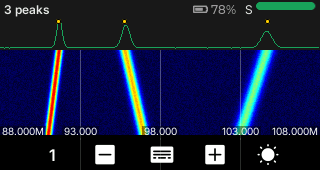
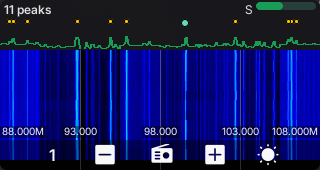
docs: real RF in the README and the store screenshots
docs/media/sdr.png and scanner.png came from the mock sources and showed
two or three synthetic carriers. Replace them with the captures the app
READMEs already use, both taken from the dongle: WFM at 99.6 MHz and an
88-108 MHz sweep with 11 peaks. The README now opens with the SDR demo
GIF, a live waterfall recorded on the device.

Claude-Session: https://claude.ai/code/session_01Fi3YWkHDyyuyYf4iKkxsu9

diff --git a/README.md b/README.md
@@ -2,6 +2,8 @@
 
 Radio tools for the [M5Stack CardputerZero](https://shop.m5stack.com/pages/m5-cardputerzero). Plug an RTL-SDR dongle into the USB-A port and ZeroRadio turns the CardputerZero into a pocket receiver: listen to a frequency, scan a band for activity, sniff 433/868 MHz sensors, and track aircraft and ships on a map. Every decoder runs on the device. No computer or network is needed.
 
+![SDR — live WFM broadcast, scrolling waterfall](apps/sdr/docs/media/demo.gif)
+
 | Hub | SDR | Scanner |
 | --- | --- | --- |
 | ![ZeroRadio hub](docs/media/hub.png) | ![SDR spectrum and waterfall](docs/media/sdr.png) | ![Scanner waterfall and peaks](docs/media/scanner.png) |
